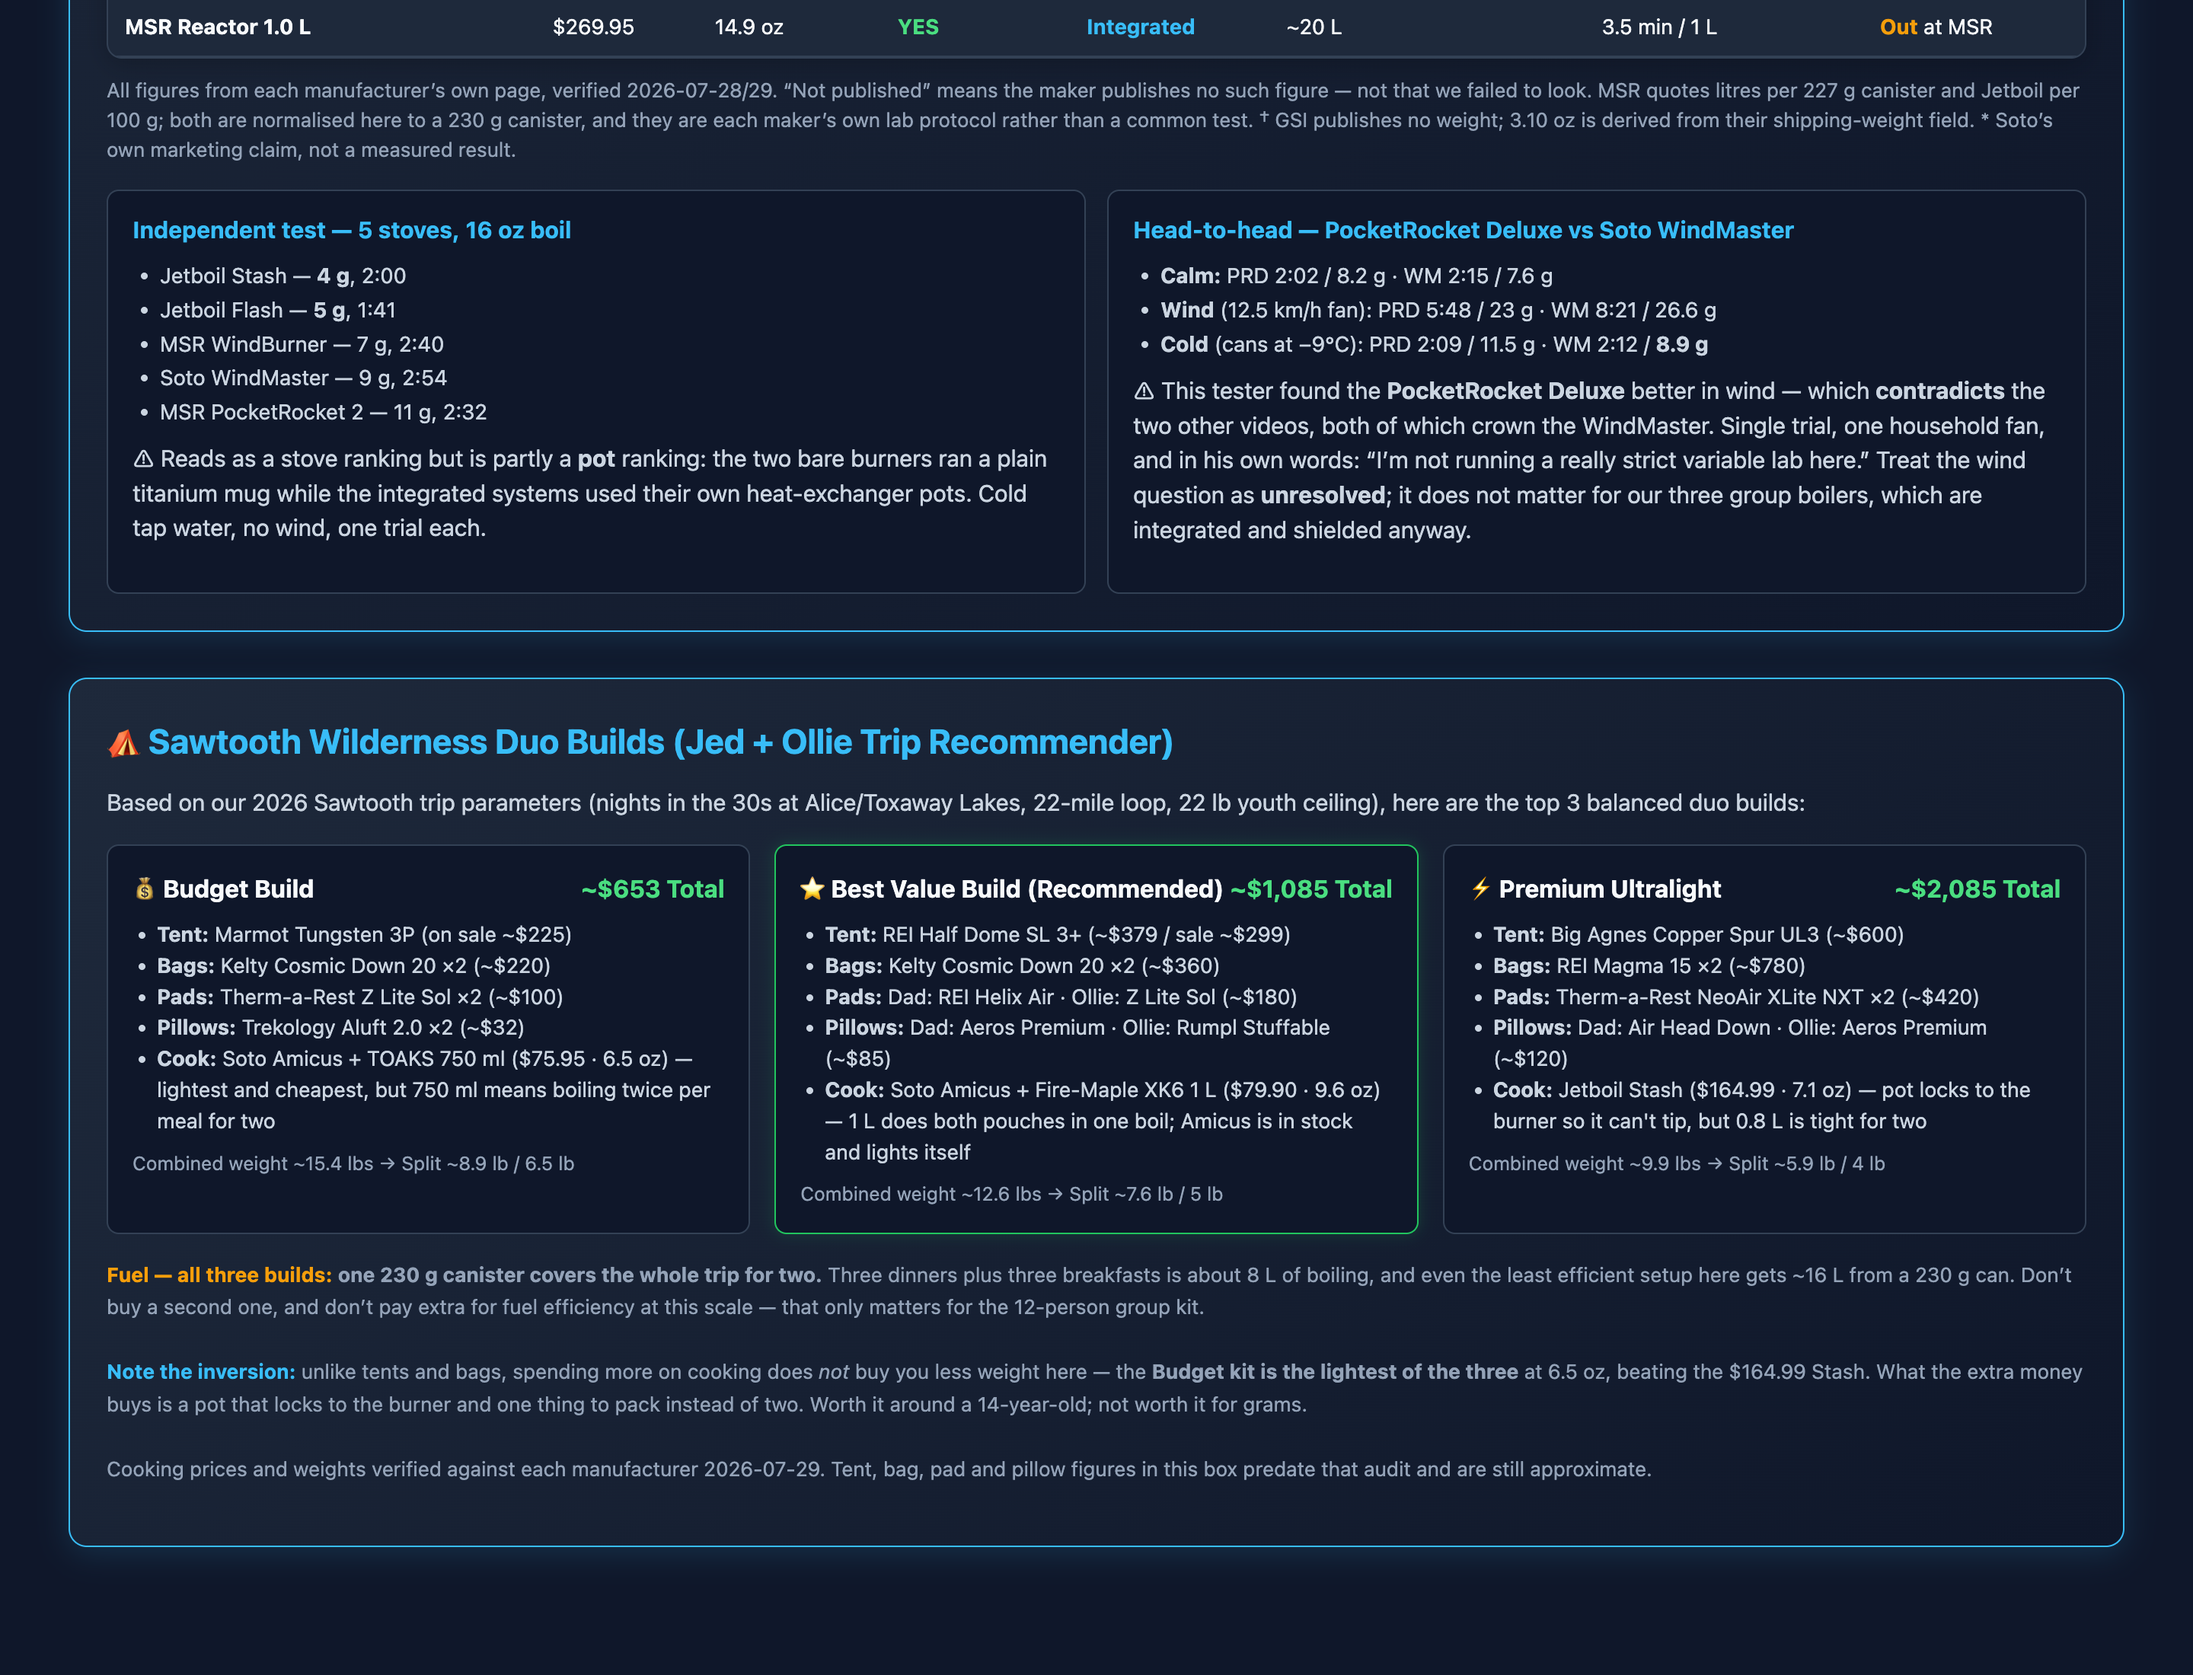
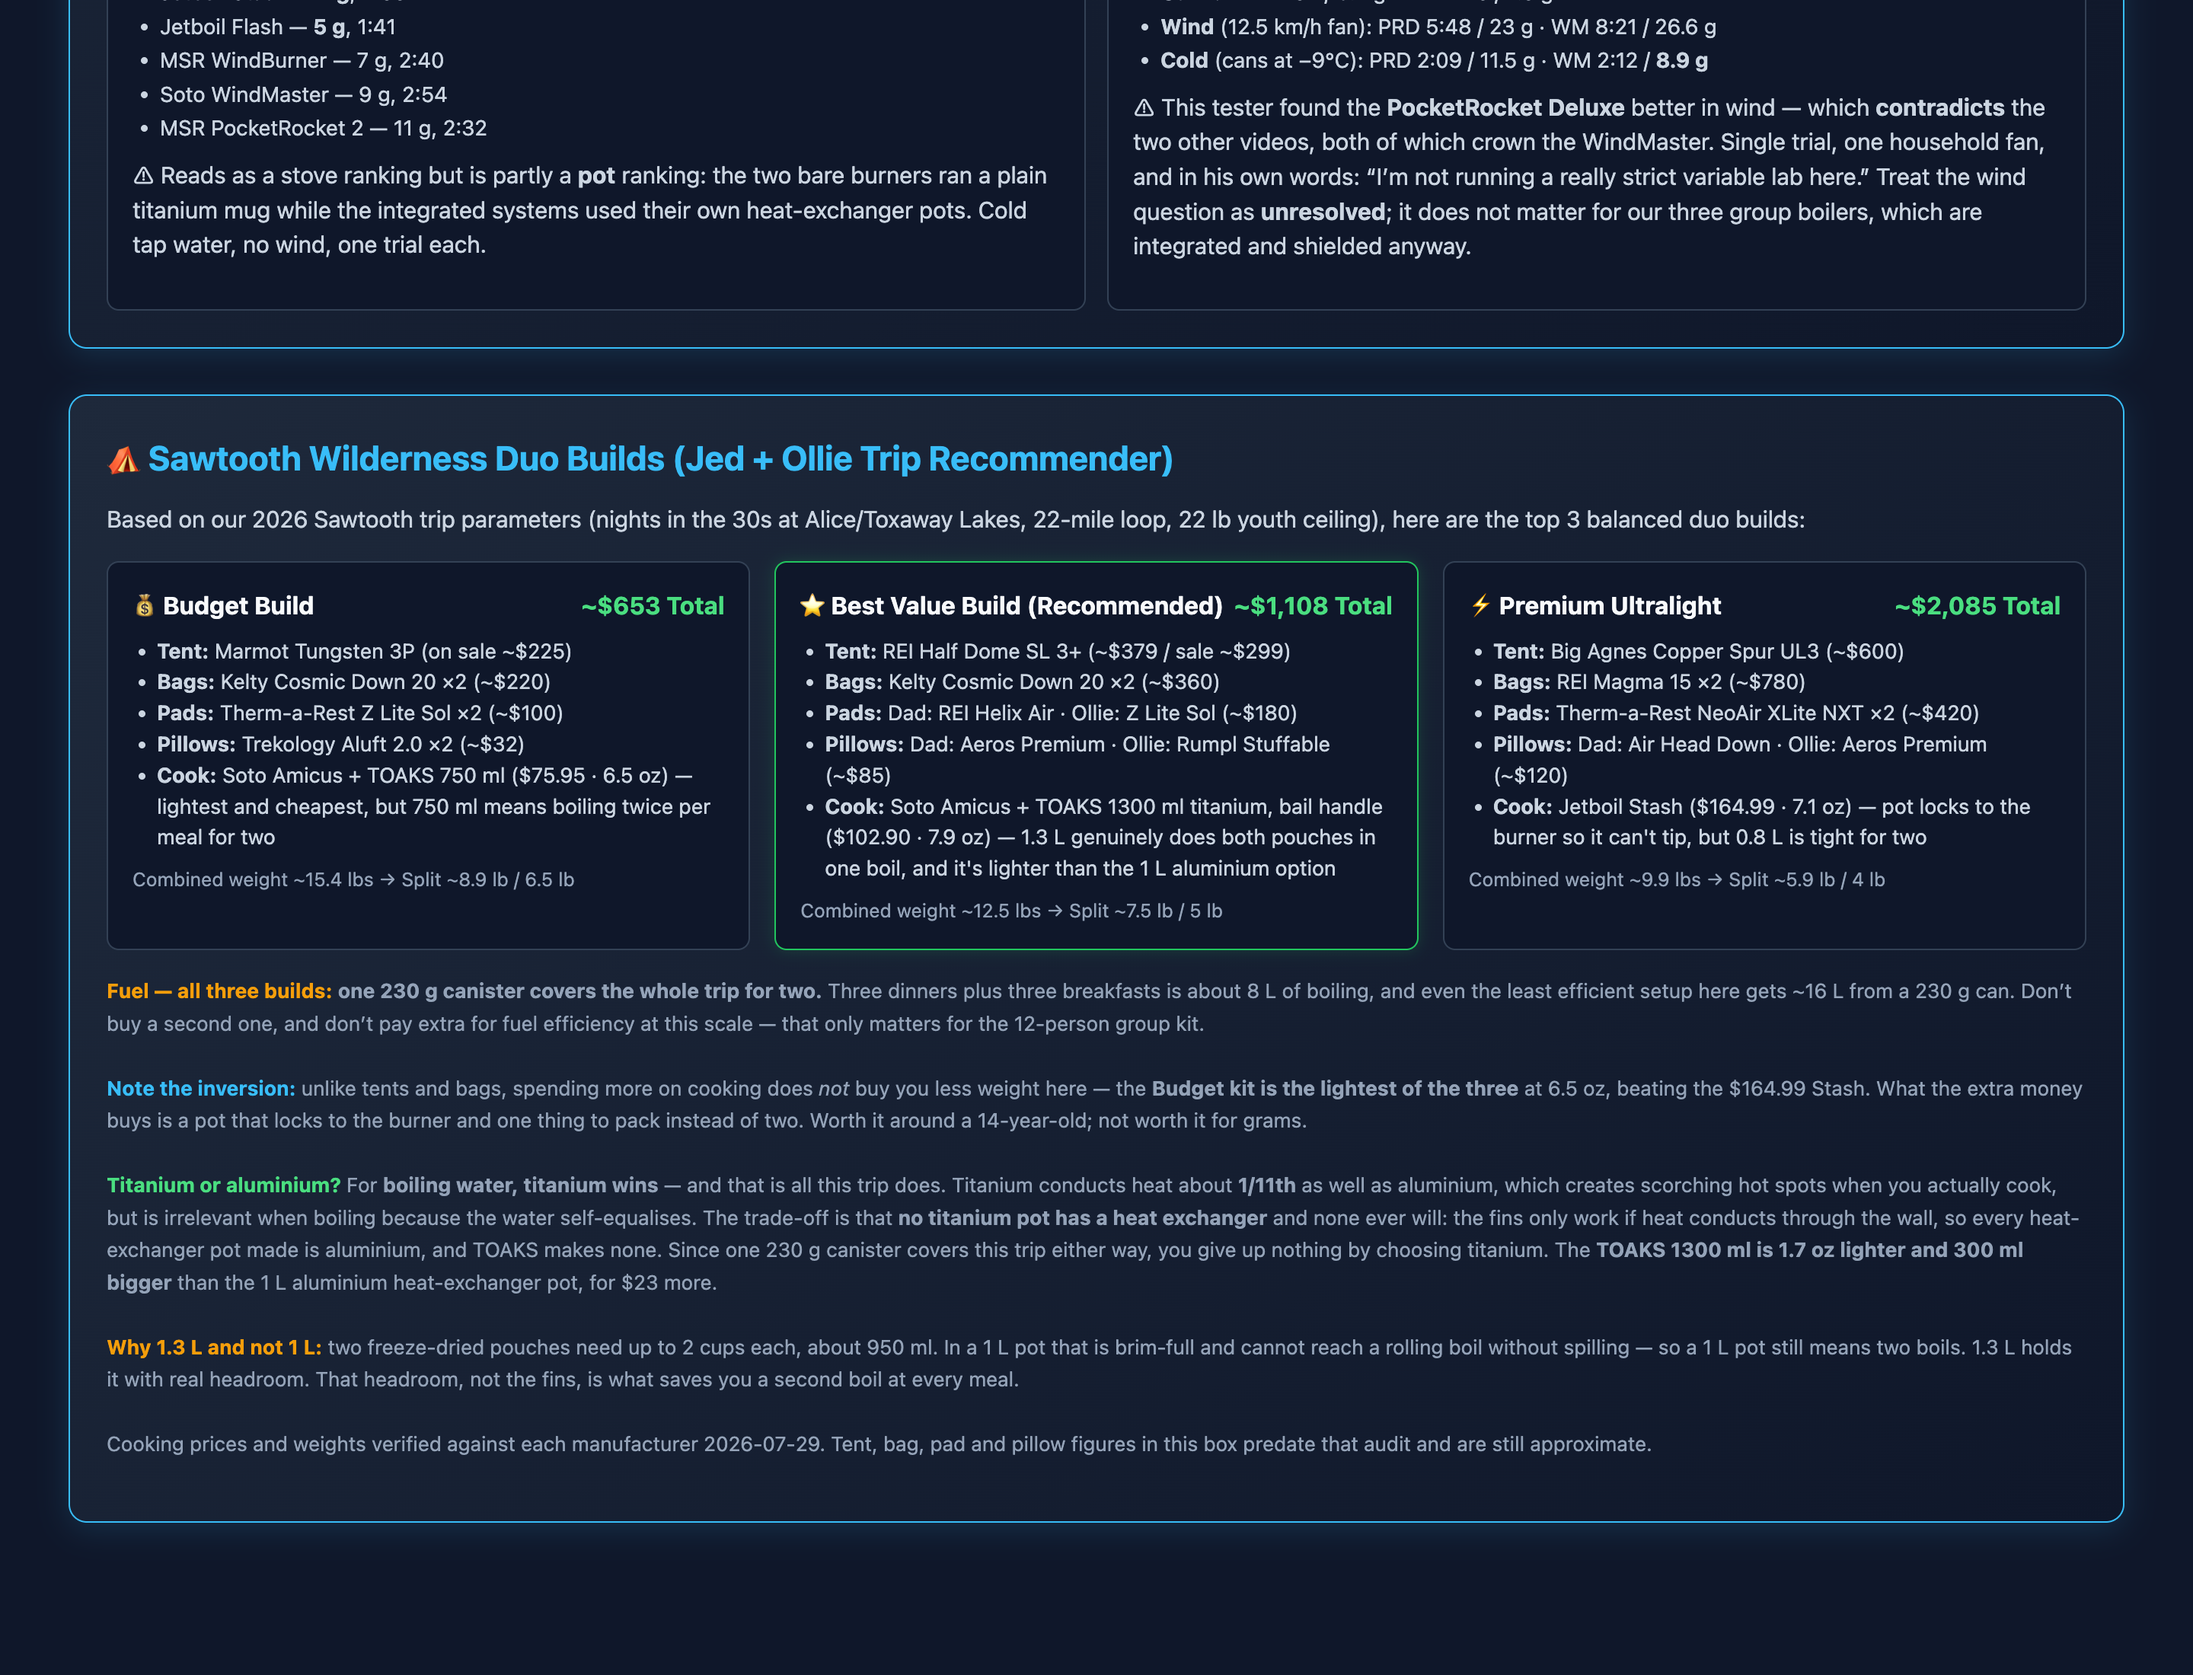
Best Value duo build: titanium 1.3 L, and fix a false capacity claim
The Best Value cook line said the 1 L Fire-Maple "does both pouches in
one boil." That is wrong. Two freeze-dried pouches need up to 2 cups
each, about 950 ml, which is brim-full in a 1.0 L pot and cannot reach a
rolling boil without spilling. A 1 L pot still means two boils, so the
line claimed exactly the benefit it did not deliver.

Switched to the TOAKS 1300 ml titanium with bail handle. At 1.3 L it
actually holds two pouches with headroom -- and it is 1.7 oz LIGHTER
(5 oz vs 6.7 oz) and 300 ml larger than the aluminium heat-exchanger pot
it replaces, for $23 more. Best Value total $1,085 -> $1,108, combined
weight 12.6 -> 12.5 lbs.

Added two explainer notes, since the titanium question turns out to have
a real answer rather than a preference:

  Titanium conducts heat about 1/11th as well as aluminium, which causes
  scorching hot spots when cooking but is irrelevant when boiling, since
  water self-equalises. This trip only boils. The trade-off is that no
  titanium pot has a heat exchanger and none can -- fins only work if
  heat conducts through the wall, which is why every heat-exchanger pot
  made is aluminium and TOAKS makes none. Since one 230 g canister
  covers the trip either way, titanium costs you nothing here.

  Headroom, not fins, is what removes a boil. 1.3 L is the smallest pot
  that does two pouches at once.

The Fire-Maple and Olicamp pots stay in Cookware -- they are still the
[…]

Changed region(s): [[0.0312, 0.0, 0.9375, 0.8964], [0.875, 0.34, 0.9375, 0.3709]]

diff --git a/gemini-code-1784928132429.html b/gemini-code-1784928132429.html
@@ -1155,16 +1155,16 @@
                 <div class="build-card recommended">
                     <div class="build-title">
                         <span>⭐ Best Value Build (Recommended)</span>
-                        <span style="color: var(--accent-green-light); font-weight:700;">~$1,085 Total</span>
+                        <span style="color: var(--accent-green-light); font-weight:700;">~$1,108 Total</span>
                     </div>
                     <ul style="font-size: 0.85rem; color: var(--text-secondary); padding-left: 16px; margin-bottom: 8px;">
                         <li><strong>Tent:</strong> REI Half Dome SL 3+ (~$379 / sale ~$299)</li>
                         <li><strong>Bags:</strong> Kelty Cosmic Down 20 ×2 (~$360)</li>
                         <li><strong>Pads:</strong> Dad: REI Helix Air · Ollie: Z Lite Sol (~$180)</li>
                         <li><strong>Pillows:</strong> Dad: Aeros Premium · Ollie: Rumpl Stuffable (~$85)</li>
-                        <li><strong>Cook:</strong> Soto Amicus + Fire-Maple XK6 1 L ($79.90 · 9.6 oz) — 1 L does both pouches in one boil; Amicus is in stock and lights itself</li>
+                        <li><strong>Cook:</strong> Soto Amicus + TOAKS 1300 ml titanium, bail handle ($102.90 · 7.9 oz) — 1.3 L genuinely does both pouches in one boil, and it's lighter than the 1 L aluminium option</li>
                     </ul>
-                    <div style="font-size: 0.78rem; color: var(--text-muted);">Combined weight ~12.6 lbs → Split ~7.6 lb / 5 lb</div>
+                    <div style="font-size: 0.78rem; color: var(--text-muted);">Combined weight ~12.5 lbs → Split ~7.5 lb / 5 lb</div>
                 </div>
 
                 <div class="build-card">
@@ -1187,6 +1187,10 @@
                 <strong style="color:var(--accent-amber);">Fuel &mdash; all three builds:</strong> <b>one 230&nbsp;g canister covers the whole trip for two.</b> Three dinners plus three breakfasts is about 8&nbsp;L of boiling, and even the least efficient setup here gets ~16&nbsp;L from a 230&nbsp;g can. Don&rsquo;t buy a second one, and don&rsquo;t pay extra for fuel efficiency at this scale &mdash; that only matters for the 12-person group kit.
                 <br><br>
                 <strong style="color:var(--accent-blue);">Note the inversion:</strong> unlike tents and bags, spending more on cooking does <em>not</em> buy you less weight here &mdash; the <b>Budget kit is the lightest of the three</b> at 6.5&nbsp;oz, beating the $164.99 Stash. What the extra money buys is a pot that locks to the burner and one thing to pack instead of two. Worth it around a 14-year-old; not worth it for grams.
+                <br><br>
+                <strong style="color:#4ade80;">Titanium or aluminium?</strong> For <b>boiling water, titanium wins</b> &mdash; and that is all this trip does. Titanium conducts heat about <b>1/11th</b> as well as aluminium, which creates scorching hot spots when you actually cook, but is irrelevant when boiling because the water self-equalises. The trade-off is that <b>no titanium pot has a heat exchanger</b> and none ever will: the fins only work if heat conducts through the wall, so every heat-exchanger pot made is aluminium, and TOAKS makes none. Since one 230&nbsp;g canister covers this trip either way, you give up nothing by choosing titanium. The <b>TOAKS 1300&nbsp;ml is 1.7&nbsp;oz lighter and 300&nbsp;ml bigger</b> than the 1&nbsp;L aluminium heat-exchanger pot, for $23 more.
+                <br><br>
+                <strong style="color:var(--accent-amber);">Why 1.3&nbsp;L and not 1&nbsp;L:</strong> two freeze-dried pouches need up to 2 cups each, about 950&nbsp;ml. In a 1&nbsp;L pot that is brim-full and cannot reach a rolling boil without spilling &mdash; so a 1&nbsp;L pot still means two boils. 1.3&nbsp;L holds it with real headroom. That headroom, not the fins, is what saves you a second boil at every meal.
                 <br><br>
                 Cooking prices and weights verified against each manufacturer 2026-07-29. Tent, bag, pad and pillow figures in this box predate that audit and are still approximate.
             </p>

diff --git a/roadmap/gear-gap-audit/research/heat-exchanger-pots-verified.md b/roadmap/gear-gap-audit/research/heat-exchanger-pots-verified.md
@@ -126,3 +126,40 @@ heat exchanger saves perhaps 50 g of fuel over four days.
 So the pots above are listed as the honest cheap route to efficiency for anyone outfitting
 the group stoves, but the duo builds do **not** lean on them for fuel reasons. There the 1 L
 capacity is the point: one boil covers both freeze-dried pouches instead of two.
+
+## Titanium vs aluminium — and a sizing error this caught
+
+**No titanium heat-exchanger pot exists, and none will.** Titanium conducts heat at roughly
+**1/11th** the rate of aluminium (~22 vs ~237 W/m·K). A fin ring only helps if heat conducts
+from the fin through the pot wall into the water; in titanium it would not. That is why every
+heat-exchanger pot verified in this pass — Jetboil FluxRing, MSR WindBurner/Reactor, Olicamp
+XTS, Fire-Maple — is aluminium, and why TOAKS, a titanium specialist, makes none. Their own
+site search for "heat exchanger" returns zero results.
+
+**Titanium's weakness does not apply to this trip.** Poor conduction creates scorching hot
+spots, which ruins real cooking. It is irrelevant for boiling, because water convects and
+self-equalises. `packcheck.html` specifies "boiling for freeze-dried meals, so no cooking and
+no cleanup" — so the one drawback never bites.
+
+**Combined with the duo-scale fuel finding, titanium is simply the better choice for two.**
+One 230 g canister covers the trip on any setup, so the heat exchanger buys nothing here, and
+the titanium pot is lighter and larger:
+
+| | Price | Weight | Capacity |
+|---|---|---|---|
+| Fire-Maple XK6 (aluminium, HX) | $29.95 | 6.7 oz | 1.0 L |
+| TOAKS 1300 ml BH (titanium) | $52.95 | **5 oz** | **1.3 L** |
+
+**Sizing error this caught.** The Best Value duo build initially read "1 L does both pouches in
+one boil." That is false. Two freeze-dried pouches need up to 2 cups each, about 950 ml. In a
+1.0 L pot that is brim-full and cannot reach a rolling boil without spilling, so a 1 L pot
+still means two boils. **1.3 L is the smallest size that genuinely does two pouches at once.**
+Corrected 2026-07-29; the build now specifies the TOAKS 1300 ml BH.
+
+The general lesson: for a duo boiling water, **headroom matters more than fins**. Capacity is
+the spec that removes a boil; the heat exchanger only removes fuel weight, which is already a
+non-issue at this scale.
+
+The Fire-Maple XK6 and Olicamp XTS remain listed in Cookware — they are still the cheapest
+verified route to heat-exchanger efficiency for anyone outfitting the 12-person group stoves,
+where the 48-56 L requirement makes fuel efficiency real.
